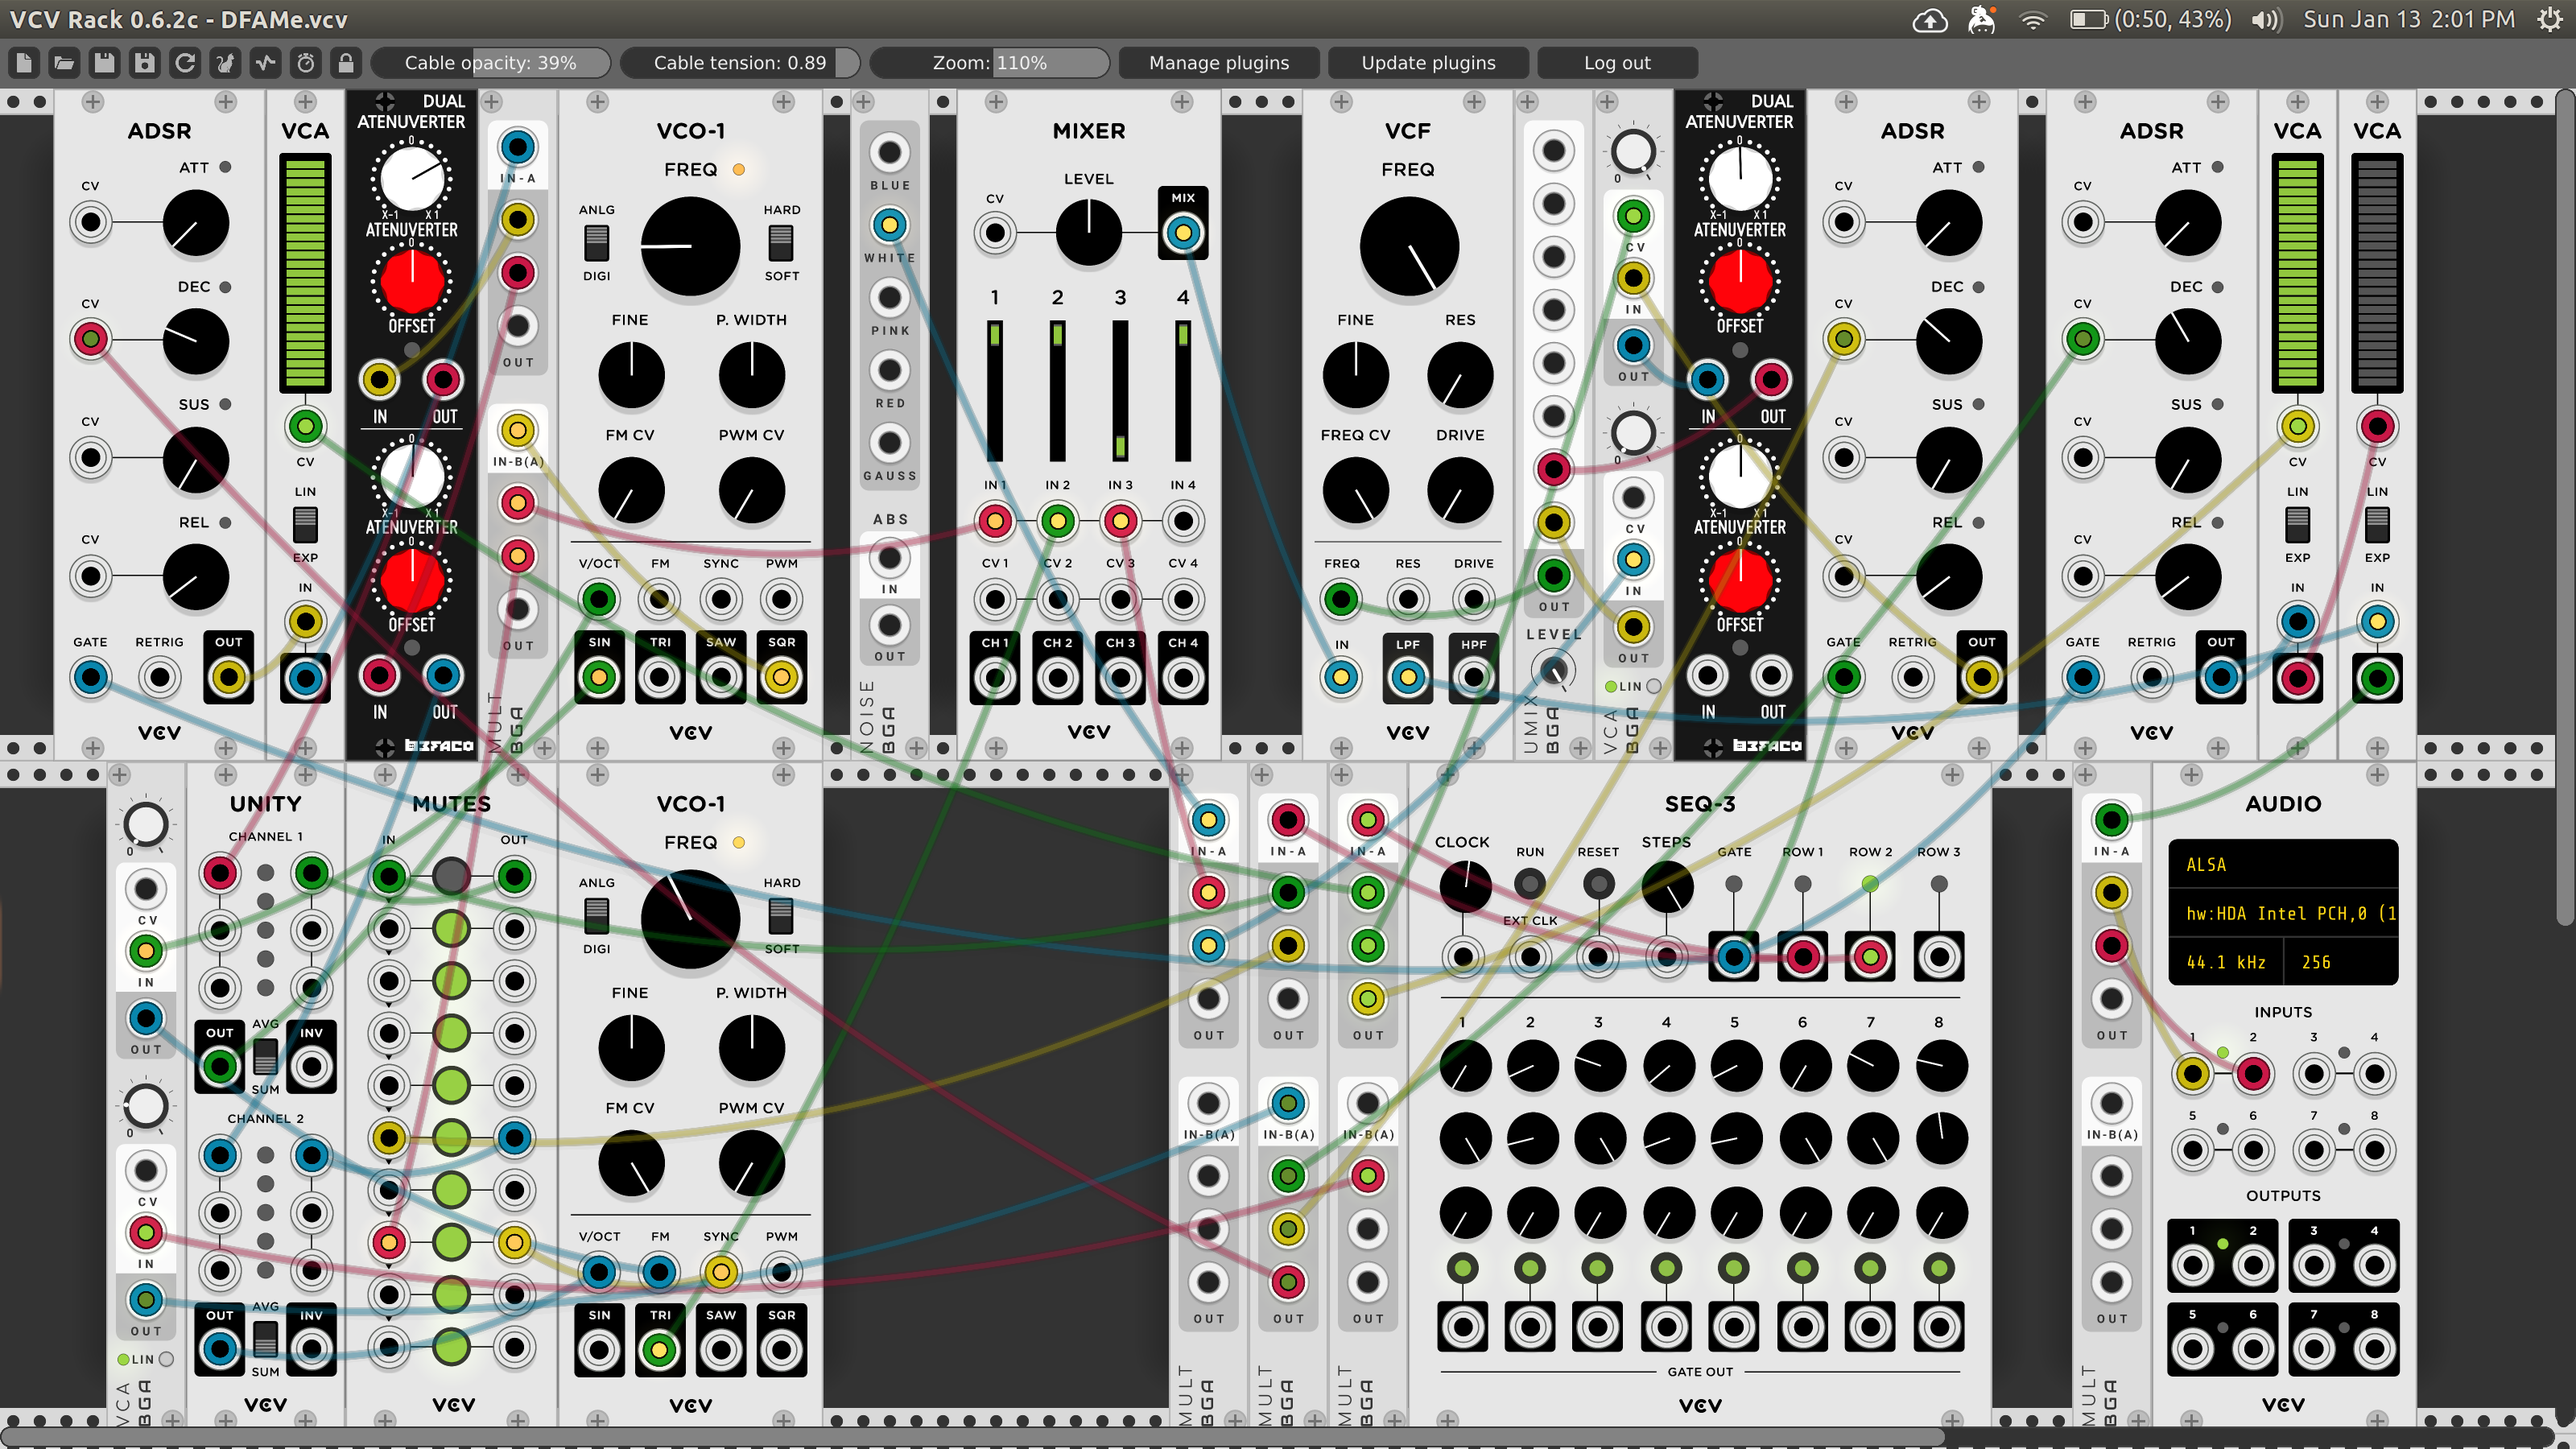
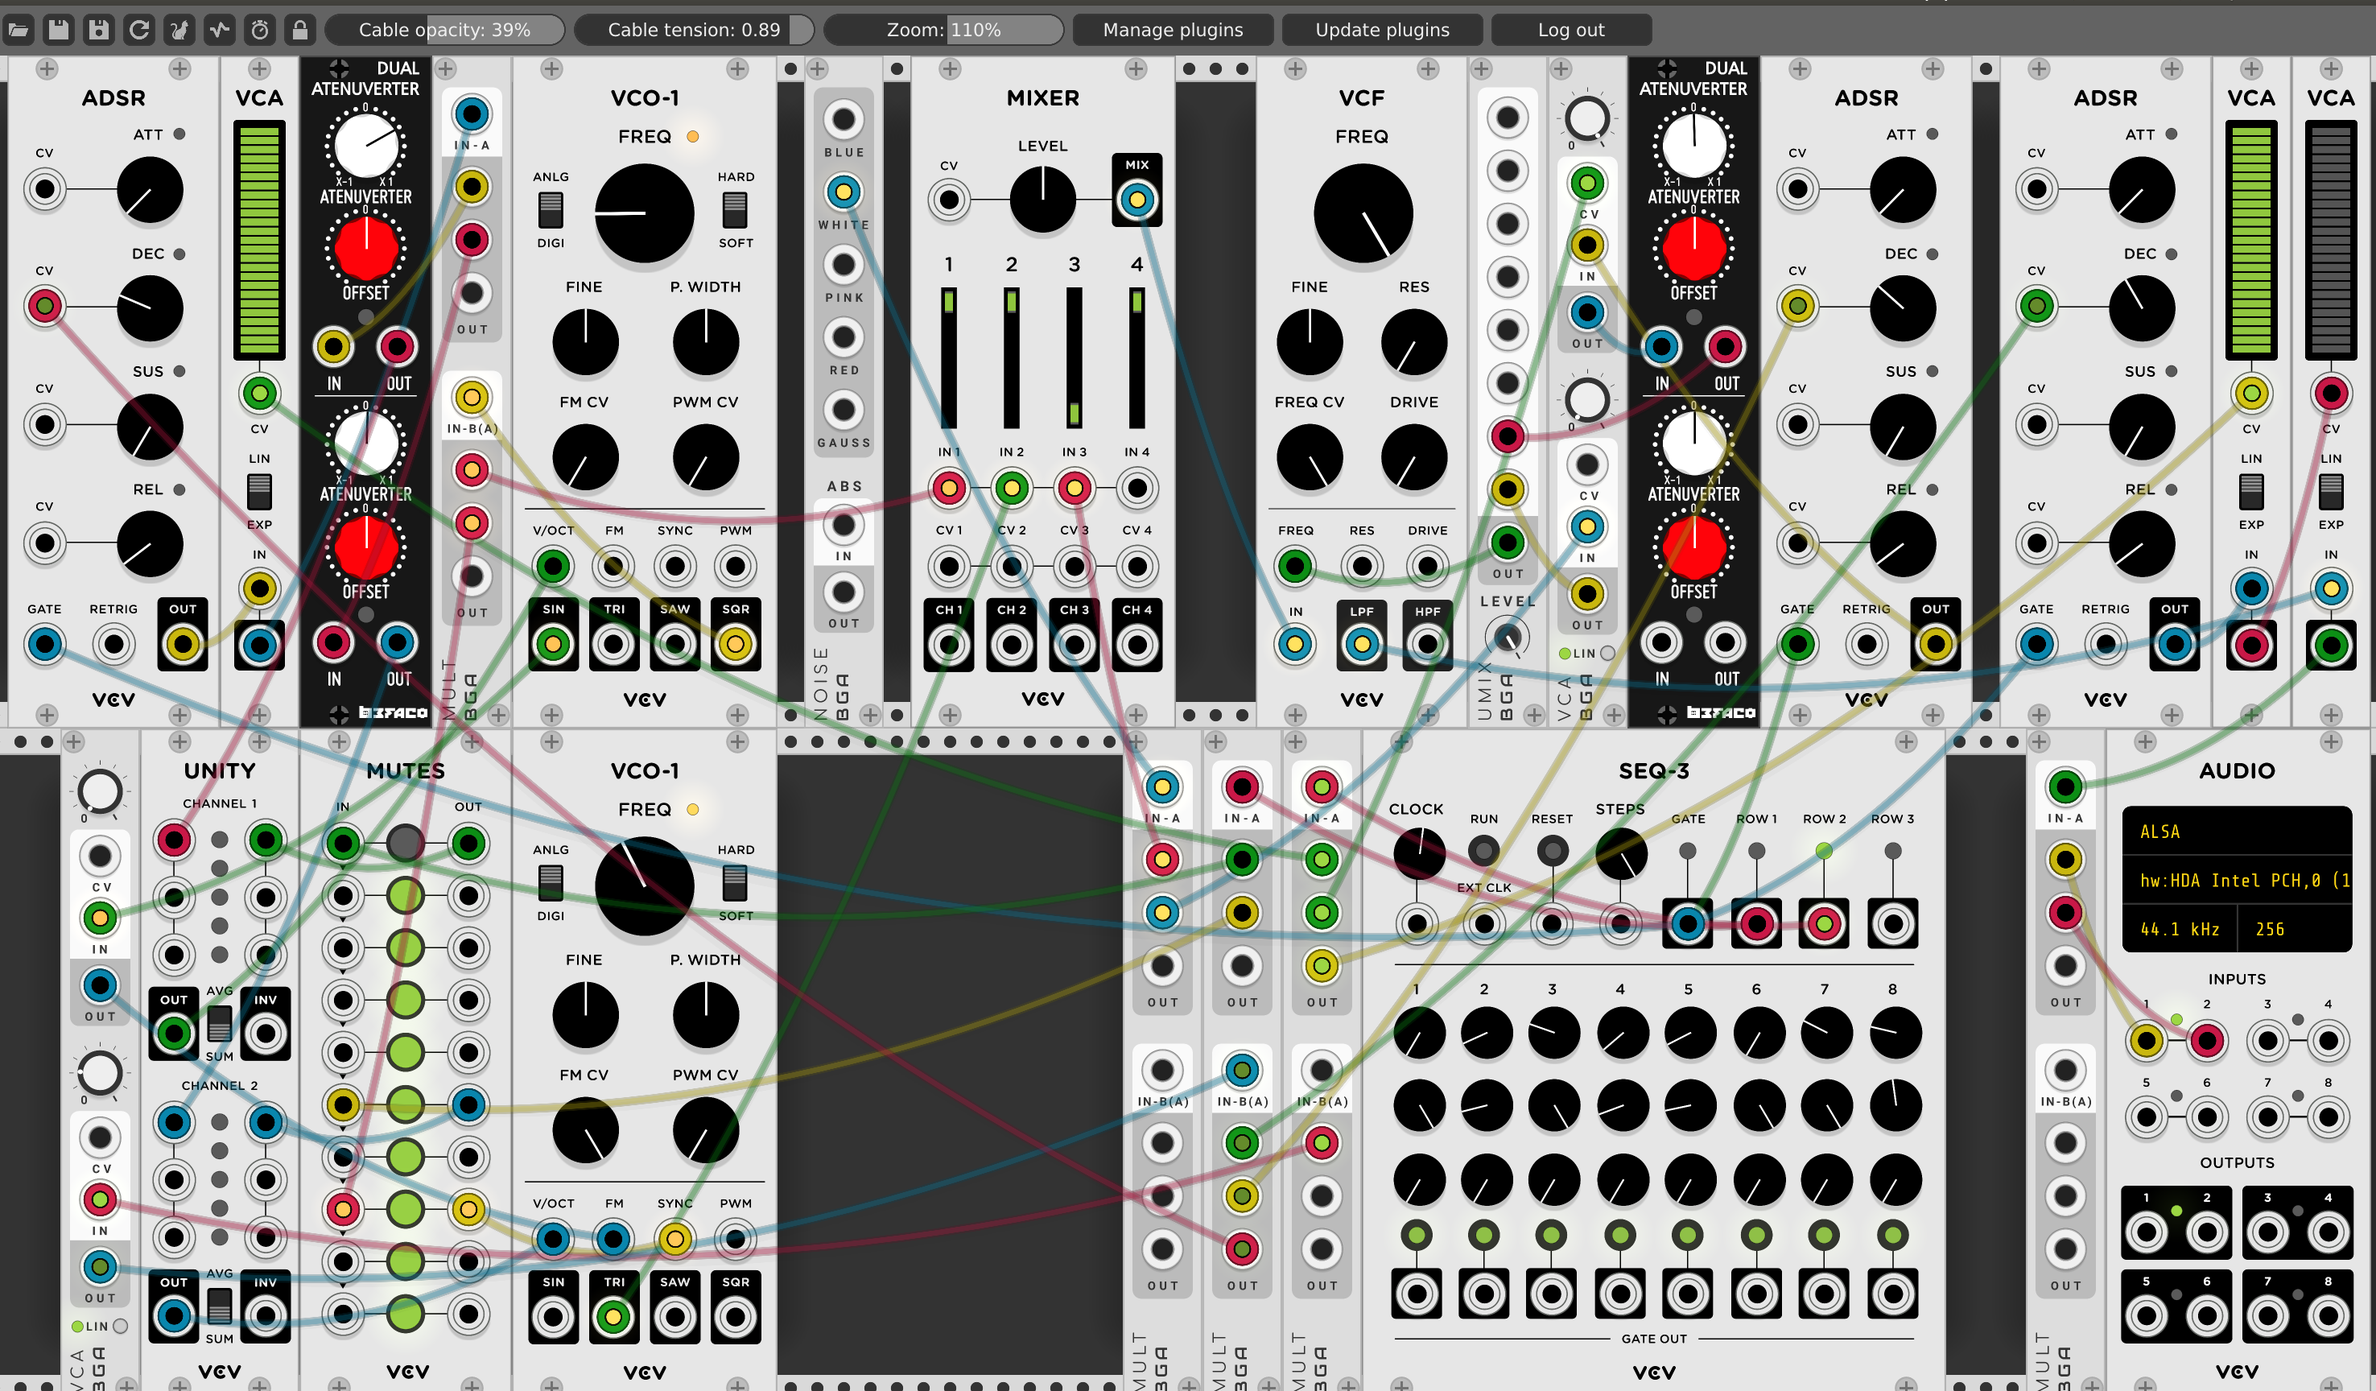
Trim DFAMe.png

diff --git a/_posts/2019-01-13-DFAMe-VCV-Rack-DFAM-thing.md b/_posts/2019-01-13-DFAMe-VCV-Rack-DFAM-thing.md
@@ -6,7 +6,7 @@ I recently discovered [VCV Rack](https://vcvrack.com/) and have been blown away 
 As a learning exercise I tried to build a [Moog DFAM](https://www.moogmusic.com/products/dfam-drummer-another-mother) equivalent, and it turns out to be pretty playable.
 I won't claim it sounds as good or is as playable as a real DFAM, but I think it's pretty complete.
 
-<img src="/images/DFAMe.png" alt="VCV Rack screenshot of DFAMe patch" style="width:800;height:450;">
+<img src="/images/DFAMe.png" alt="VCV Rack screenshot of DFAMe patch" style="width:752px;height:432px;">
 
 [Here's the patch file](https://gitlab.com/duelinmarkers/dotRack/blob/master/patches/DFAMe.vcv).
 It's built entirely out of free plugins.
